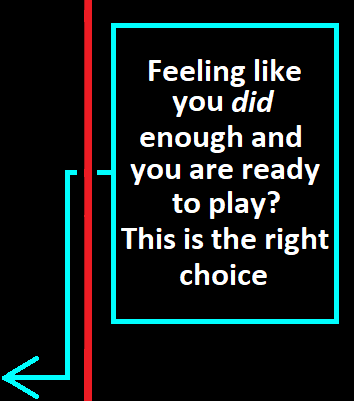
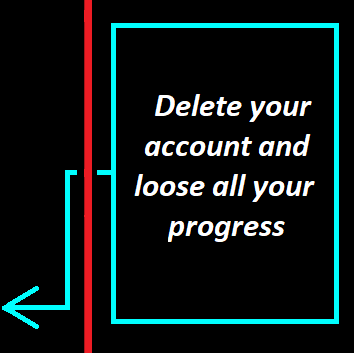
completed management option in game menu

diff --git a/funcoes.py b/funcoes.py
@@ -98,8 +98,20 @@ def lista_utilizadores():
     return [u[1] for u in utilizadores]
 
 
-def write_name_passw(screen, name, password, ativo, hide):
+def create_sized_text(max_size_image, max_size_letter, text, color, min_size_letter=30):
     pygame.font.init()
+    text_font = None
+    rendered_text = None
+    for i in range(min_size_letter, max_size_letter)[::-1]:
+        text_font = pygame.font.SysFont('Times New Roman', i)
+        text_font.set_bold(True)
+        rendered_text = text_font.render(text, True, color)
+        if rendered_text.get_size()[0] <= max_size_image:
+            break
+    return rendered_text
+
+
+def write_name_passw(screen, name, password, ativo, hide):
     coordenadas1 = [(333, 203), (335, 349)]
     pygame.draw.rect(screen, (0, 0, 255),(coordenadas1[ativo], (420, 57)), 8)
     screen.blit(pygame.image.load("images/menu/interfaces/navigation/pointer.png"), (coordenadas1[ativo][0]+450, coordenadas1[ativo][1]))
@@ -109,9 +121,8 @@ def write_name_passw(screen, name, password, ativo, hide):
     else:
         password = "".join(password)
     name = "".join(name)
-    text_font = pygame.font.SysFont('Times New Roman', 32)
-    name_text = text_font.render(name, True, (255, 255, 255))
-    password_text = text_font.render(password, True, (255, 255, 255))
+    name_text = create_sized_text(330, 32, name, (255, 255, 255), 20)
+    password_text = create_sized_text(330, 32, password, (255, 255, 255), 16)
     screen.blit(name_text, coordenadas2[0])
     screen.blit(password_text, coordenadas2[1])
 
@@ -178,12 +189,14 @@ def writeble_parts_number(number):
     pygame.font.init()
     text_font = pygame.font.SysFont('Times New Roman', 12)
     new_text = str(number)
+    #image_text = create_sized_text(170, 65, new_text, (0, 0, 0))
     for s in range(65)[::-1]:
-        text_font = pygame.font.SysFont('Times New Roman', s)
-        image_text = text_font.render(str(number), True, (0, 0, 0))
-        size = image_text.get_size()
-        if size[0] <= 170:
-            break
+            text_font = pygame.font.SysFont('Times New Roman', s)
+            image_text = text_font.render(str(number), True, (0, 0, 0))
+            size = image_text.get_size()
+            if size[0] <= 170:
+                break
+    size = image_text.get_size()
     coordenadas = (132, 226-size[1]/2)
     image_text = text_font.render(new_text, True, (255, 255, 255))
     return [image_text, coordenadas]

diff --git a/classes_menu.py b/classes_menu.py
@@ -23,7 +23,7 @@ class Button2(Button):
         self.value = 0
         self.efeito = "manage"
         self.id = id_c
-        self.value_image = pygame.image.load("images/menu/buttons/8/6.png")
+        self.value_image = pygame.image.load("images/menu/buttons/8/7.png")
         self.get_value()
 
     def get_value(self):
@@ -101,6 +101,14 @@ class User:
         file.write(data)
         file.close()
 
+class Menu_image_sequence:
+    def __init__(self, screen, diretorio, num_paginas, func_link, name):
+        self.screen = screen
+        self.name = name
+        self.background_image = pygame.image.load("images/menu/interfaces/Main/sequence.png")
+        self.images_list = [pygame.image.load(diretorio+f"{i}.png") for i in range(num_paginas)]
+        self.num_paginas = num_paginas
+        self.origin_link = func_link
 
 class Menu:
     def __init__(self, buttons, diretorio, superficie, user=None):
@@ -510,7 +518,7 @@ class Management:
         self.list = buttons
         self.diretorio = diretorio
         self.image_nome = pygame.image.load(diretorio)
-        self.efeito1 = [pygame.image.load(f"images/menu/effects/1/{i+1}.png") for i in range(4)]
+        self.efeito1 = [pygame.image.load(f"images/menu/effects/5/{i+1}.png") for i in range(4)]
         self.efeito2 = [pygame.image.load(f"images/menu/effects/4/{i+1}.png") for i in range(4)]
         self.codigo_ativo = 0
         self.screen = superficie
@@ -579,7 +587,7 @@ class Management:
         self.screen.blit(pygame.image.load(f"images/menu/interfaces/User/parts.png"), (0, coo[1] - 310))
         self.screen.blit(pygame.image.load(f"images/cars/display/{self.user.level}.png"), (coo[0]+15, coo[1]+53))
         self.user.draw_text(self.screen)
-        coordenadas = {0: (680, 90), 1: (680, 90), 2: (698, 192), 3: (685, 178), 4: (685, 178)}
+        coordenadas = {0: (680, 90), 1: (680, 90), 2: (698, 192), 3: (685, 178), 4: (685, 178), 5: (685, 178)}
         coo = coordenadas[self.codigo_ativo]
         self.screen.blit(pygame.image.load(f"images/menu/info/info_{self.name}/{self.codigo_ativo+1}.png"), (coo[0], coo[1]))
         self.draw_buttons()

diff --git a/link_functions.py b/link_functions.py
@@ -104,16 +104,16 @@ def game_parts(screen):
 
 def manage_account(screen):
     posicx = (1080 - 260)//2
-    posicy = [y for y in range(110, 600, 100)]
-    effects = ["", "", "add_text", "elmnt_account", "exit3"]
-    butns = [cm.Button(posicx, y, f"images/menu/buttons/8/{posicy.index(y)+1}.png",
+    posicy = [y for y in range(155, 600, 70)]
+    effects = ["", "", "add_text", "change_password", "elmnt_account", "exit3"]
+    butns = [cm.Button(posicx, y+20, f"images/menu/buttons/8/{posicy.index(y)+1}.png",
                                 effects[posicy.index(y)], posicy.index(y))
                       for y in posicy[:len(effects)]]
     posicx -= 55
-    button1 = cm.Button2(posicx, 130, f"images/menu/buttons/8/{posicy.index(110)+1}.png",
-                                effects[posicy.index(110)], posicy.index(110), 0)
-    button2 = cm.Button2(posicx, 230, f"images/menu/buttons/8/{posicy.index(210)+1}.png",
-                                effects[posicy.index(210)], posicy.index(210), 1)
+    button1 = cm.Button2(posicx, 130, f"images/menu/buttons/8/{0+1}.png",
+                                effects[0], 0, 0)
+    button2 = cm.Button2(posicx, 230, f"images/menu/buttons/8/{1+1}.png",
+                                effects[1], 1, 1)
     butns = [button1, button2]+butns[2:]
     user = cm.User()
     user.get_active_user()
